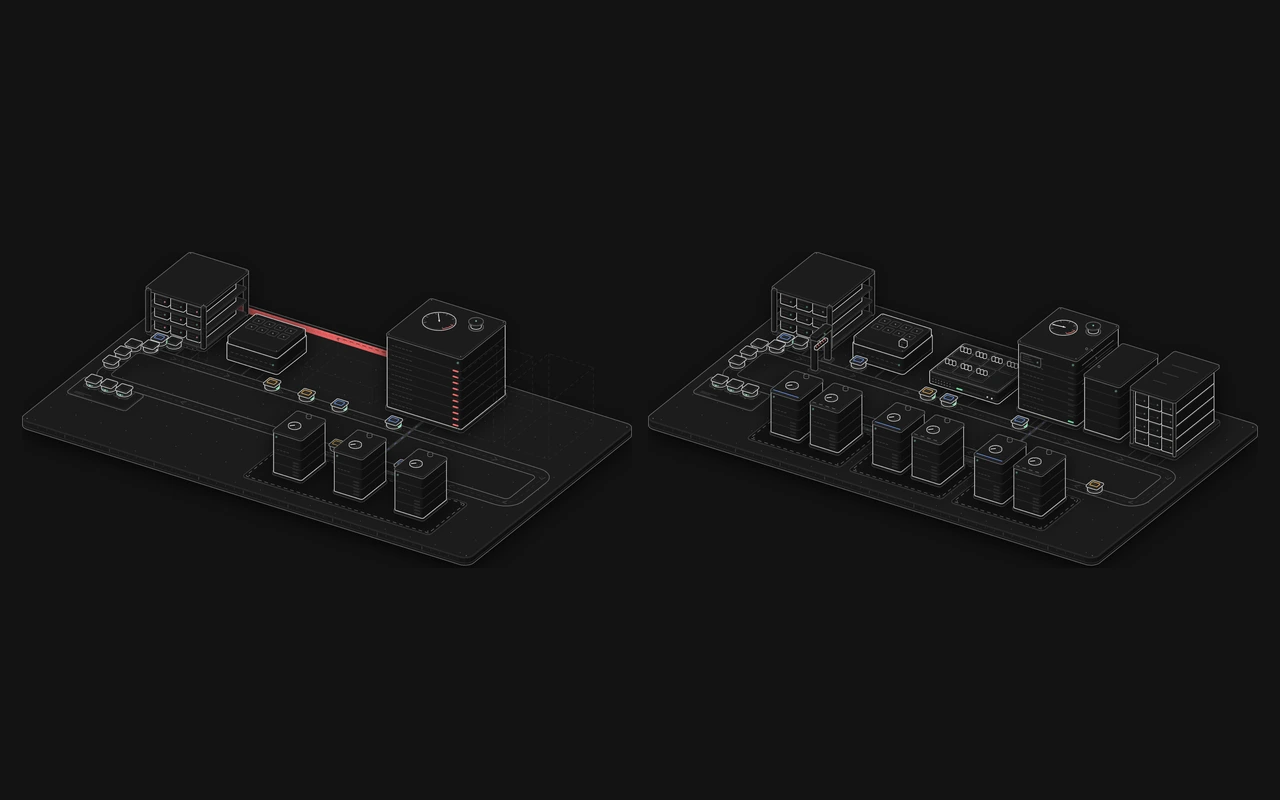
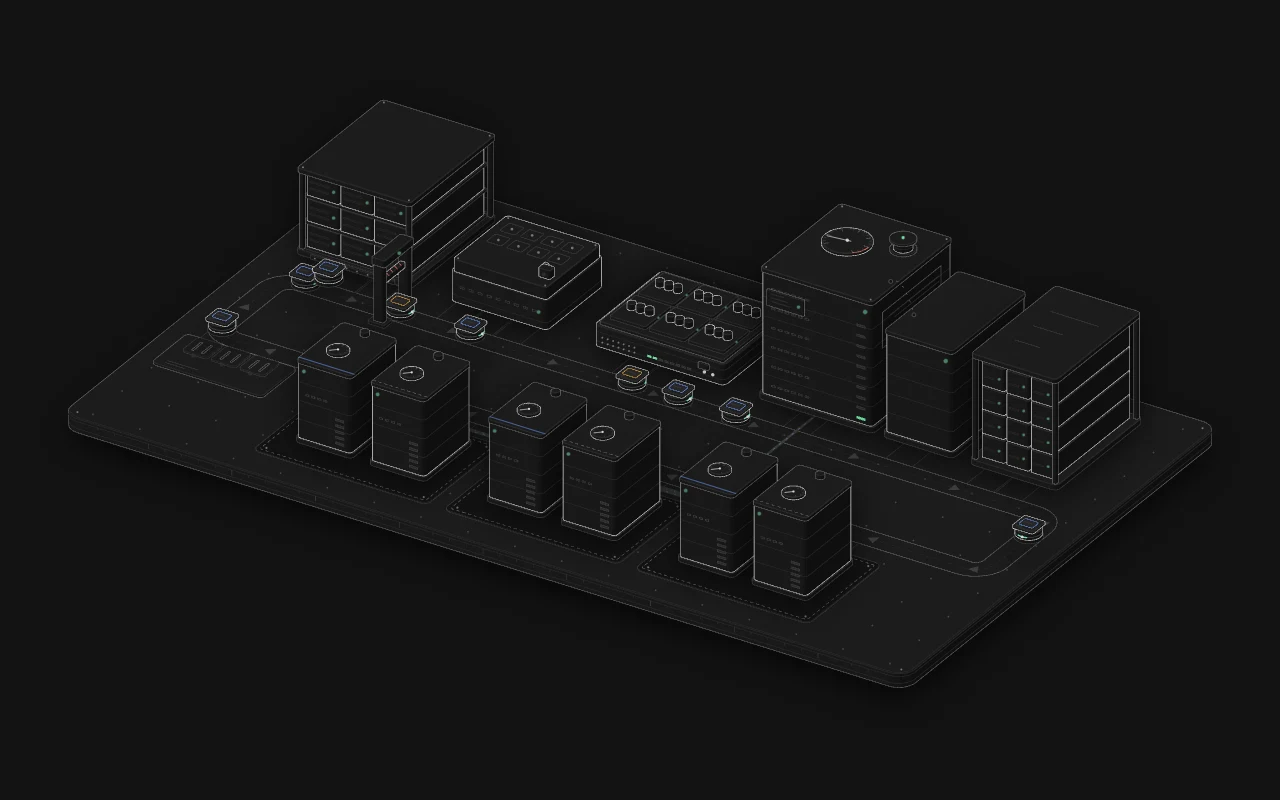
Replace the ChatGPT Postgres block's card and social preview images with stills of today's floor in normal traffic, without pins or controls, and describe that picture in the alt text.

diff --git a/blocks/registry.ts b/blocks/registry.ts
@@ -83,7 +83,7 @@ export const BLOCKS: BlockMeta[] = [
     images: {
       card: { light: '/blocks/chatgpt-postgres/card-light.webp', dark: '/blocks/chatgpt-postgres/card-dark.webp' },
       og: '/blocks/chatgpt-postgres/og.png',
-      alt: 'Two isometric server floors side by side: on the left the initial design, with apps cabled straight to one PostgreSQL primary and three replicas; on the right today’s, with a rate-limit gate, a leased cache, PgBouncer, a primary with a hot standby, Azure Cosmos DB and replicas in three regions. Robot trays carry query slips between them.'
+      alt: 'An isometric server floor showing today’s PostgreSQL setup for ChatGPT: app servers behind a rate-limit gate, a cache, PgBouncer, one primary with a hot standby, Azure Cosmos DB and six read replicas, with small robot trays carrying queries along a lane between them.'
     }
   },
   {
